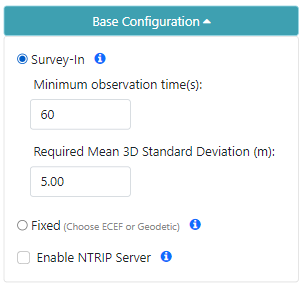
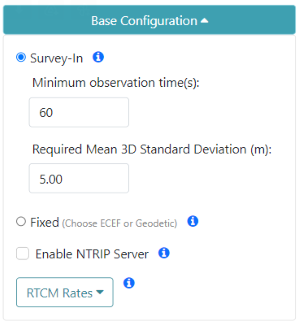
Document feature #322

diff --git a/docs/configure_base.md b/docs/configure_base.md
@@ -112,6 +112,16 @@ Note: During NTRIP transmission WiFi is turned on and Bluetooth is turned off. Y
 
 For users who return to the same base position or monument, the coordinates can be saved to a 'Commonly Used Coordinates' list. A nickname and the X/Y/Z positions are saved to the list. Any record on the list can be loaded from the list into the X/Y/Z fields allowing quick switching without the need to hand record or re-enter coordinates from day-to-day repositioning of the base.
 
+## RTCM Message Rates
+
+![The RTCM Menu under Base](img/SparkFun%20RTK%20Base%20Survey%20In.png)
+
+When the device is in Base mode, the fix rate is set to 1Hz. This will override any Rover setting. 
+
+![The list of supported RTCM messages](img/SparkFun%20RTK%20-%20Base%20RTCM%20Rates%20Menu.png)
+
+Additionally, RTCM messages are generated at a rate of 1Hz. If lower RTCM rates are desired the RTCM Rates menu can be used to modify the rates of any supported RTCM message. This can be helpful when using longer-range radios that have lower bandwidth.
+
 ## Supported Lat/Long Coordinate Formats
 
 ![Entering coordinates in alternate formats](img/SparkFun%20RTK%20-%20Alternate%20Coordinate%20Types%20for%20Fixed%20Base.png)
